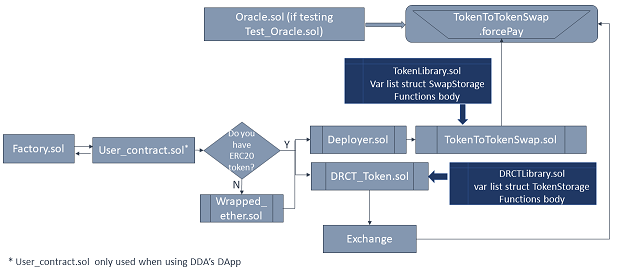
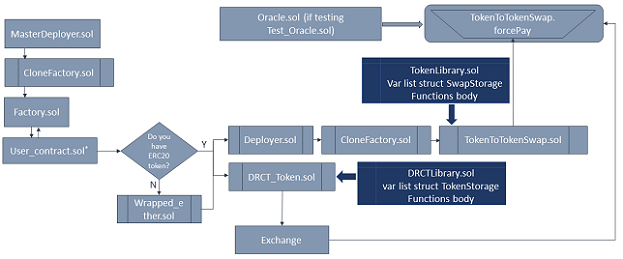
Updated readme.md

diff --git a/scripts/contract_setup.js b/scripts/contract_setup.js
@@ -4,7 +4,7 @@ var UserContract= artifacts.require("UserContract");
 var Deployer = artifacts.require("Deployer");
 const TokenToTokenSwap = artifacts.require('./TokenToTokenSwap.sol');
 const DRCT_Token = artifacts.require('./DRCT_Token.sol');
-var o_startdate =1530230400;
+var o_startdate =1532649600;
 /*var factory_address= "0x15bd4d9dd2dfc5e01801be8ed17392d8404f9642";*/
 var factory_address= "0xbb966cce6e880b17d35d2575f5124d880e0c247f";
 

diff --git a/README.md b/README.md
@@ -11,7 +11,7 @@ Dynamic Rate Cash Transaction (DRCT) Tokens are standardized contracts for tradi
 
 #### If you have questions, ask us on Slack: https://deriveth.slack.com/
 
-DAPP:  https://drct.decentralizedderivatives.org 
+DAPP:  http://dapp.ddacoop.org/ 
 
 Oracle Methodology can be found at: https://github.com/DecentralizedDerivatives/Public_Oracle
 
@@ -20,13 +20,13 @@ Metamask - www.metamask.io
 Truffle - http://truffleframework.com/
 
 ## How to Contribute
-Join our slack, shoot us an email or contact us to list the tokens or the contract creation pieces on your site
+Join our slack, shoot us an email or contact us to list the tokens or the contract creation pieces on your site.
 
 Any contributions are welcome!
 
 ### Instructions for quick start with Truffle Deployment 
 
-Follow the steps below to launch the Factory, Oracle and dependency contracts using truffle. 
+Follow the steps below to launch the Factory, Oracle and dependency contracts using Truffle. 
 
 Clone the repo, cd into it, and then:
 
@@ -52,20 +52,26 @@ You're ready to create DRCT tokens and contracts!
 ![Contracts Flow](./public/DRCT_Standard_process_flow.png)
 
 **Contracts Description**
- * Factory.sol - The factory contract is the base of the system.  It holds the standardized variables and is called to create new swap contracts and create new DRCT tokens for the user. 
- * UserContract.sol - If the user is using DDA's DApp, the Factory will read in the variables entered here.
- * Wrapped_Ether.sol - Is called by the Factory to convert Ether into an ERC20 token to create the base token. 
- * TokenDeployer.sol - Is called by the factory to deploy the new swap by calling the TokenToTokenSwap.sol.
+ * MasterDeployer.sol - Kicks off the factory creation by calling the CloneFactory.sol to clone a specified factory and keep track of active factories.
+ * Factory.sol - The factory contract is the base of the system.  It sets the standardized variables used in the swap contract and is called to create new swap contracts and create new DRCT tokens for the user. 
+ * UserContract.sol - If the user is using DDA's DApp, the Factory will read in the variables entered here and variables available through the Factory contract to properly register the swap contract.
+ * Wrapped_Ether.sol - Is called by the Factory to convert Ether into an ERC20 token to create the base token that used in the swap. 
+ * Deployer.sol - Is called by the Factory to deploy the new swap by calling the TokenToTokenSwap.sol and the CloneFactory.sol(allows the cloning of a contract by specifying the address).
+ * CloneFactory.sol-Is used by the Factory.sol via the MasterDeployer.sol to clone deployed factories by specifying their address and it is also used via the Deployer.sol to clone deployed swap contracts by specifying their address. 
  * TokenToTokenSwap.sol - Sets up the smart contract that allows trading one token for another at the specified future date, based upon the change in the underlying reference rate. It uses the TokenLibrary to read in the functions and variables used.
+     * TokenLibrary.sol - Houses all the logic and fucntions used in TokenToTokenSwap.sol that are needed to implement a start, create and implement a token swap and pay out participants.
  * DRCT_Token.sol - Creates the short and long tokens for the contract at a 1:1 ratio. It uses the DRCTLibrary to read in the functions and variables used.
- * Oracle.sol Contracts provide the reference rates for the contract.  Our oracle contract uses daily UNIX timestamp values as keys for specific values.
- * Test_Oracle.sol allows the operator to store custom values for testing functionallity.    
+     * DRCTLibary.sol - Houses all the logic for the DRCT token including the basic tranfer, tranferFrom, approve, adding a swap to a token, and getter functions.
+ * Oracle.sol - Provides the reference rates for the contract.  Our oracle contract uses daily UNIX timestamp values as keys for specific values.
+ * Test_Oracle.sol - Allows the operator to store custom values for testing functionallity.
+ * Exchange.sol - Facilitates the direct sale of DRCT Tokens by allowing the users to buy and place DRCT tokens up for sale at a specified price.  
 
-## Documentation##
+
+## Documentation
 
 Documentation is noted for acting as the operator (DDA's role) and also entering into contract (a user).  Specific contract details are laid out for ease of use regardless of dev environment. 
 
- If you wish to simply enter a contract without a deep dive into the underlying solidity, you can use our DApp at drct.decentralizedderivatives.org and follow our video tutorial here: [https://www.youtube.com/watch?v=NdBqfzAeHFg](https://www.youtube.com/watch?v=NdBqfzAeHFg)
+ If you wish to simply enter a contract without a deep dive into the underlying solidity, you can use our DApp at http://dapp.ddacoop.org/ and follow the instuctions in the "How To" pop up (metamask is required). 
 
 ***
 For ease of use, an 'everything' flat file has been created containing all contracts in the DRCT_standard library. 
@@ -74,16 +80,15 @@ For ease of use, an 'everything' flat file has been created containing all contr
 
 
 ## **Setting up the environment**
-If one is accessing the contracts via the DApp or by way of an already deployed Factory contract, these steps will have been done for you. Skip to Step 9 if you are user, have wrepped ether, know the contract address and are ready to enter a contract.
+If one is accessing the contracts via the DApp or by way of an already deployed Factory contract, some of these steps will have been done for you. Skip to Step 9 if you are user, have wrapped ether, know the contract address and are ready to enter a contract.
 
-**Operator Step 1**
-**Create the Oracle**
+**Step 1: Operator - Create the Oracle**
 
  Oracle Contracts provide the reference rates for the contract.  Our oracle contract uses daily UNIX timestamp values as keys for specific values.   
 
         create Oracle();
 
-DDA will grab values for contract dates, however parties can also initiate the contract call(and must do so on private instances of the oracle). This function stores the daily value of the API in the Oracle.
+DDA will grab values for contract dates, however parties can also initiate the contract call (and must do so on private instances of the oracle). This function stores the daily value of the API in the Oracle.
 
         oracle.PushData();
 
@@ -93,42 +98,37 @@ DDA will grab values for contract dates, however parties can also initiate the c
         oracle.StoreDocument(1543881600, 1000);
         oracle.StoreDocument(1544486400,1200);
 
-**Operator Step 2**
-**Create the Base Tokens**
+**Step 2: Operator - Create the Base Tokens**
 
 A DRCT contract is structured as trading one token for another at some future date, based upon the change in the underlying reference rate.  We need to set the token we are trading (aka our base token). 
 
      create Wrapped_Ether();
 
 
-**Operator Step 3**
-**Create Factory Contract**
+**Step 3: Operator - Create Factory Contract**
      
 The factory contract is the base of the system.  It holds the standardized variables and is called to create new contracts and create new DRCT tokens for the user.  
 
     create Factory();
 
-**Operator Step 4**
-**Create Deployer and DRCT_Token**
+**Step 4: Operator - Create Deployer and DRCT_Token**
 
 Due to gas limits on the network, the Factory contract could not hold all functionality.  For this reason, the Deployer contract holds the task of deploying a new swap and is called by the factory contract.  The DRCT_token is used by the factory contract to create the DRCT tokens.
 
        create Deployer(factory.address);
        create DRCT_Token(factory.address);
 
-**Operator Step 5**
-**Create UserContract**
+**Step 5: Operator - Create UserContract**
 
 For wrapped Ether contracts, when creating a contract, it is required to deploy a contract from the Factory, wrap your Ether,  enter specific details of the contract, and then transfer your wrapped Ether to the contract.  To reduce the number of execution steps, the user contract reduces this step to: deploy contract and then enter the specific details using the User Contract.  
 
     create UserContract();
     UserContract.setFactory(factory.address);
 
-**Operator Step 6**
-**Set Factory Variables**
+**Step 6: Operator - Set Factory Variables**
     
      factory.setVariables(1000000000000000,7,1); //token ratio, duration (days), multiplier (this is current DApp settings)
-     factory.setBaseToken(address _token);
+     factory.setBaseToken(base.address);
      factory.setUserContract(userContract.address);
      factory.setDeployer(deployer.address);
      factory.settokenDeployer(tokenDeployer.address);
@@ -136,48 +136,43 @@ For wrapped Ether contracts, when creating a contract, it is required to deploy 
 
 The token ratio's simplify the number of DRCT tokens per base token.  For wrapped Ether, one Ether gets you 1e18 tokens.  To simplify this, we create a token ratio of 1e15 which means that for every one Ether worth of wrapped Ether, the party gets 1000 DRCT tokens.  The duration is the number of days the contract lasts (from the start date onward).  The multiplier is the number by which the reference rate is multiplied by.  Note that this also limits the contract in terms of potential upside/downside.  A multiplier of 10 means that if the underlying rate moves by 5%, the contract pays out based on a 50% change in the reference rate.  Since contracts are capped at a 100% move in either direction, a multiplier of 10 will be capped at moves of 10%.  
 
-**Operator Step 7**
-**Create DRCT Tokens**
+**Step 7: Operator - Create DRCT Tokens**
 
 The DRCT tokens are the ERC20 tokens that represent the specific shares in a contract.  Since the contracts are standardized at the factory level, the DRCT tokens are interchangeable within the same DRCT token address (it does not matter what specific contract the DRCT token maps to). The token contract is expanded from normal ERC20 tokens to track the number and address of holders for use by the operator when paying out the contracts. If you are the first party to do a contract on a given start date, you will need to create the DRCT tokens.
 
      factory.deployTokenContract( 1516492800, true) ; 
      factory.deployTokenContract( 1516492800, false) ;
 
-**Operator Step 8**
-**Creating contracts**
+**Step 8: Operator - Creating contracts**
     
      factory.deployContract();
 
 
-**Operator Step 9**
-**Entering contracts**
+**Step 9: Operator - Entering contracts**
 
-**Note this could also be the user Step 1 to enter an existing contract**
+**Note: this step could also be the user Step 1 to enter an existing contract**
 
 Parties can now either enter the contract manually by going to the swap on their own, or they can use the userContract.  If a party enters manually, they will be required to transfer the base tokens to the contract before DRCT tokens can be issued.  The UserContract simplifies this process.  The variables one needs to enter are: the contract address from the previous step and the amount of baseTokens. The amount of base tokens entered is doubled to create the same amount of short and long tokens. 
 
-    UserContract.Initiate(contractAddress, uint amount);  //eg ("0x4c40e94a0f53747a4323cadeba4c995327fdee3b","10000000000000000000")
+    UserContract.Initiate(contractAddress, uint amount);  //e.g. ("0x4c40e94a0f53747a4323cadeba4c995327fdee3b","10000000000000000000")
 
 
 Once entered, a party must enter the other side. The party creating the contract can take the tokens to the exchange and trade the unwanted tokens.
 
 The users now have DRCT_tokens in the addresses specified for the long/short tokens in the Factory contract.  
 
-**Exit not tokenized contracts**
+**Tip: Exit not tokenized contracts**
 
 If the contract is not tokenized, parties may exit the contract (assuming both approve or only one in) using the method:
       
       TokenToTokenSwap.Exit();
 
-**Operator Step 10**
-**Contract completion**
+**Step 10: Operator - Contract completion**
 
    The swap must be manually paid out after the end date.  The contract loops through all token holders in the DRCT_token and then pays out the swap based upon who is holding the tokens.  Once the tokens are paid out, the parties can then cash out or redeem their wrapped Ether (or they are now holding the base Token). 
 
       TokentoTokenSwap.forcePay();
 
-**Operator step 11**
-**Redeem your wrapped Ether**
+**Step 11: Operator - Redeem your wrapped Ether**
 
      WrappedEther.withdraw(amount);  //enter amount in wei
